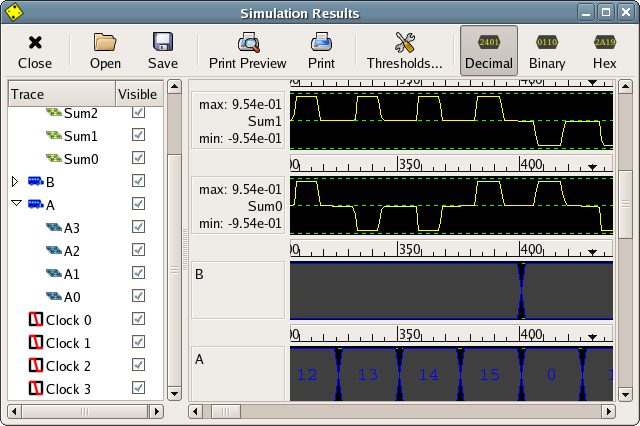
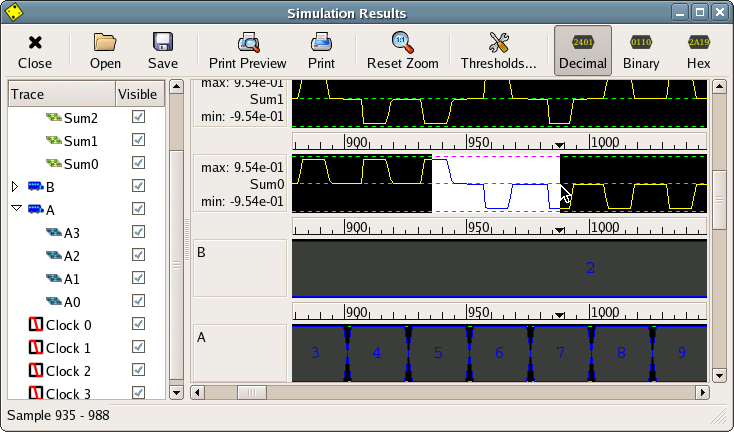
Merged doc updates from 2.0.1 .

diff --git a/docs/manual.src/graph_dialog.html b/docs/manual.src/graph_dialog.html
@@ -28,8 +28,18 @@
 
 <p><center><img src="images/graph_dialog.png"></center>
 
-<p>The input traces are shown in blue to match the color of the input cells in the design. The outputs are shown in yellow, and the clock signals are shown in red.
+<p>The input traces are shown in blue to match the color of the input cells in the design. The outputs are shown in yellow, and the clock signals are shown in red.</p>
+<p>The graph dialog is now available as a separate tool. This facilitates the viewing of simulation result files. You may run <tt>graph_dialog</tt> from a terminal or choose "Simulation Results Viewer" from the menu.</p>
 
+<h3>Zoom</h3>
+<p>You can horizontally stretch your traces to potentially reveal waveforms in your output not normally visible. To stretch a range of samples to fit into your current window, follow these steps:</p>
+<ol>
+  <li>Move the mouse to the starting sample of your desired range. The sample number is indicated in the status bar.</li>
+  <li>Drag the mouse to the ending sample of your desired range. While dragging the mouse, the selected sample range is also displayed in the status bar.</li>
+  <li>Release the mouse. The range you have selected will be stretched to fit your window.</li>
+  <li>To return to  100% view, click "Reset Zoom" in the toolbar.</li>
+</ol>
+<p><b>TIP:</b>While dragging the mouse to select a range of samples, you may click the right button (without releasing the left button) to cancel your selection. The traces will not be stretched.</p>
 <h3>Print Preview</h3>
 <p>Allows you to preview the graphs prior to printing. Note: This may not always reflect what is printed. Some PostScript previewers (especially Ghostview under Windows) handle this differently.
 
